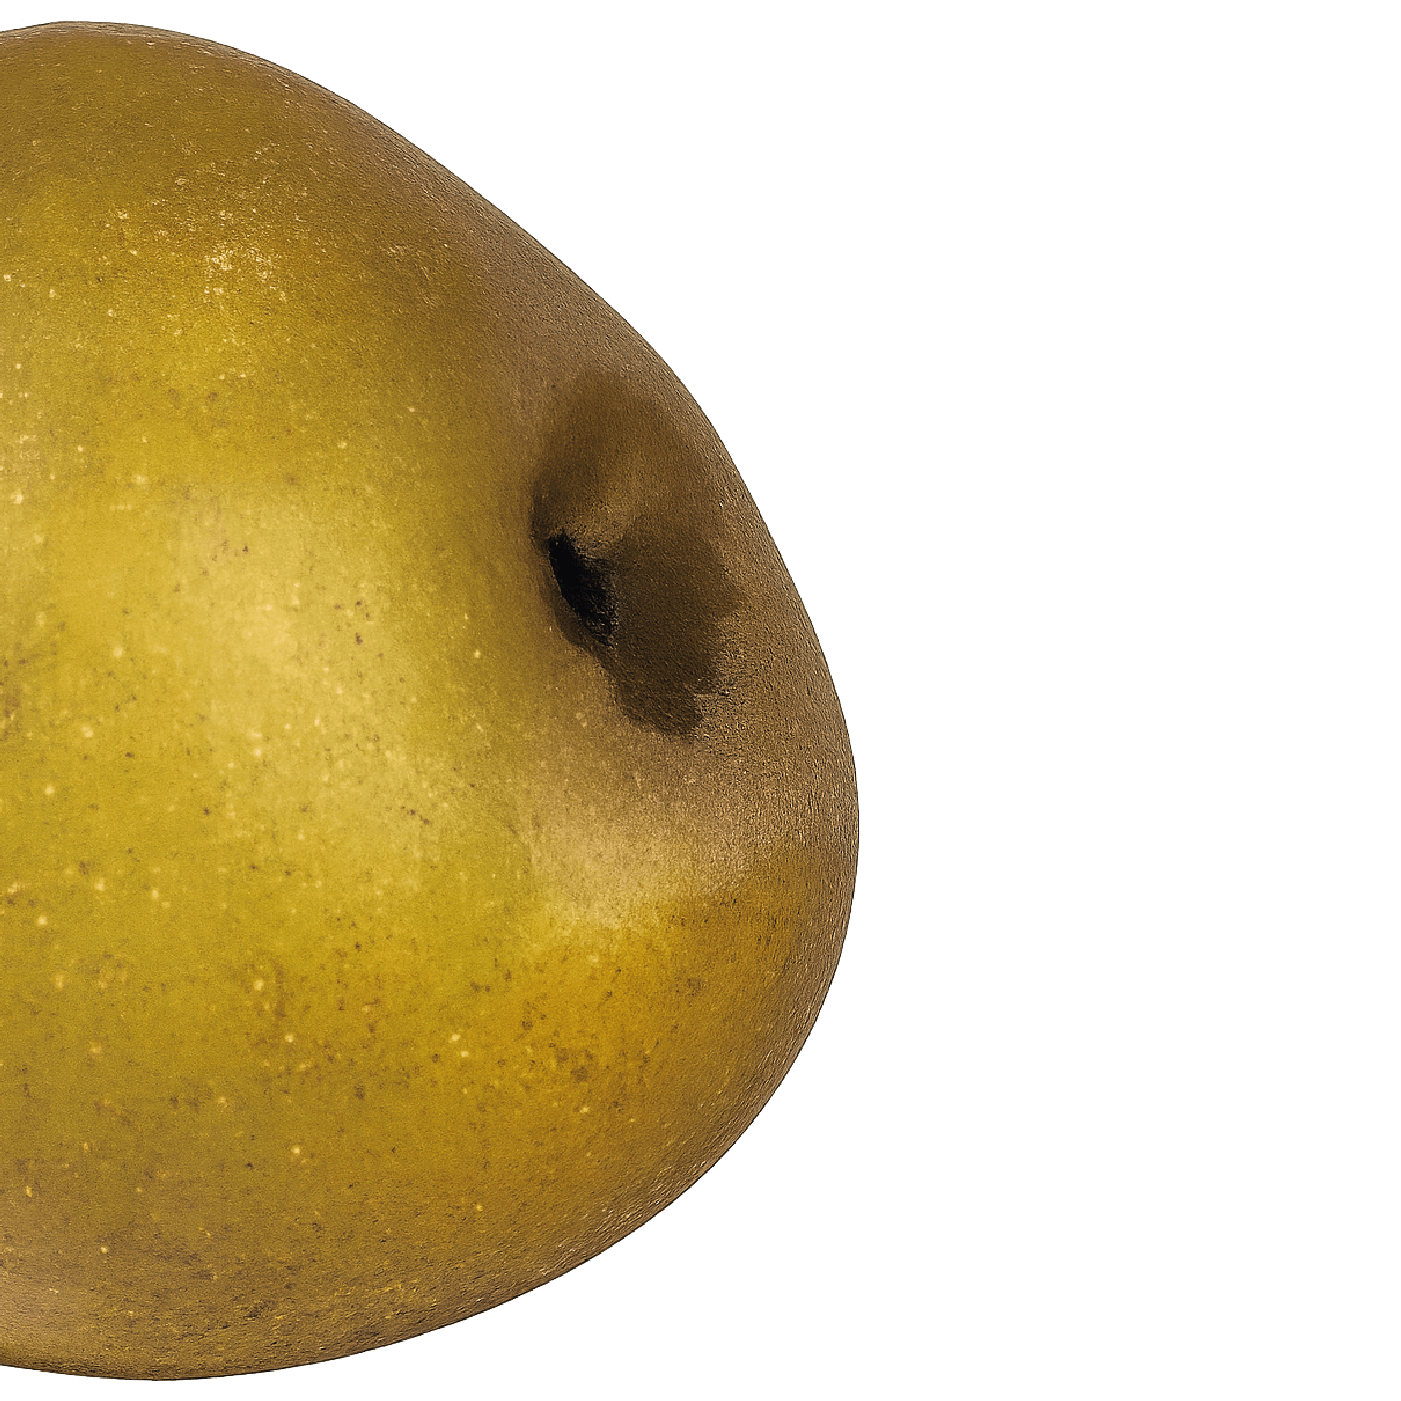
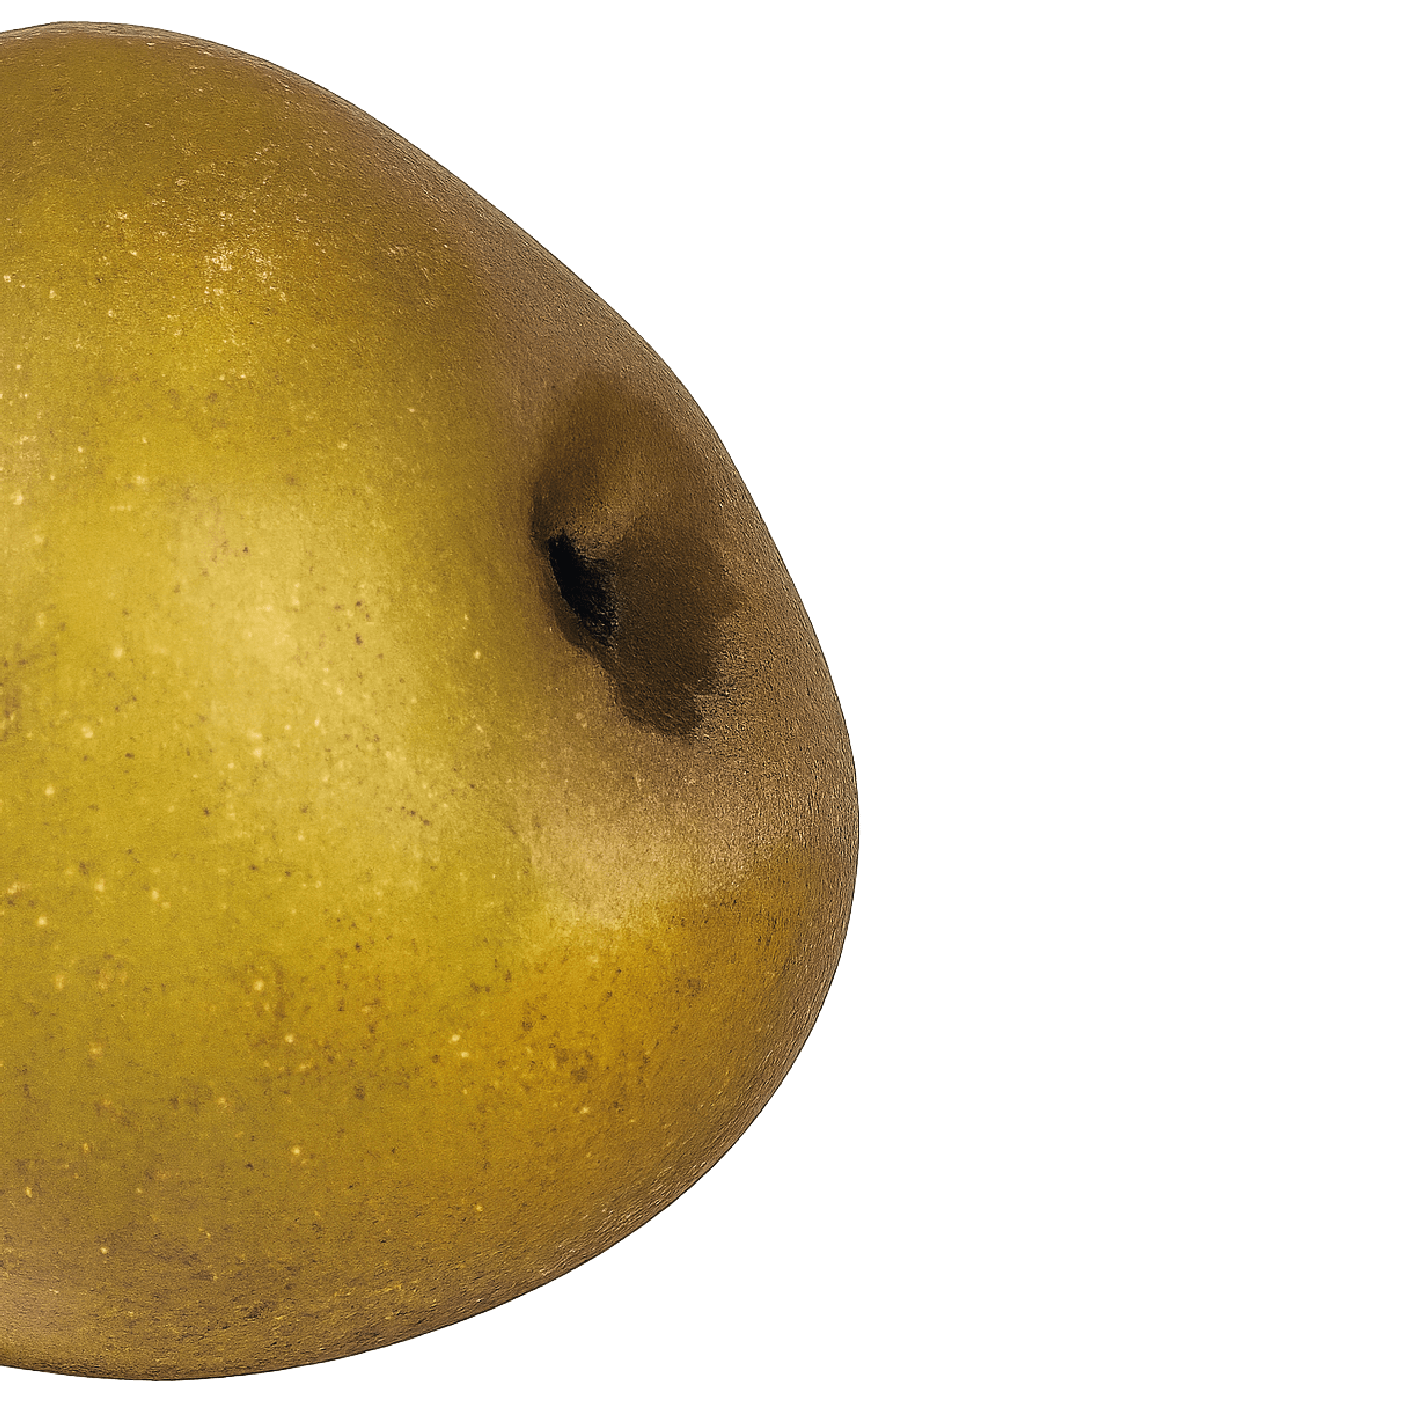
images updated

diff --git a/src/components/Banner.jsx b/src/components/Banner.jsx
@@ -65,8 +65,8 @@ const Banner = () => {
         />
         <img
           src={logo}
-          alt="logo"
-          className="w-20 sm:w-55 2xl:w-76 absolute left-[10px] top-[calc(50%-45px)] md:left-[60px] md:top-[calc(50%-70px)]  lg:top-[calc(50%-96px)] xl:left-[120px] xl:top-[calc(50%-145px)] 2xl:left-[130px] 2xl:top-[calc(50%-175px)]"
+          alt={"logo"}
+          className="w-20 sm:w-55 2xl:w-[230px] absolute left-[10px] top-[220px] md:left-[60px] md:top-[calc(50%-70px)]  lg:top-[calc(50%-96px)] xl:left-[120px] xl:top-[calc(50%-145px)] 2xl:left-[220px] 2xl:top-[calc(50%-175px)]"
         />
         <img
           src={appleSliceV1}
